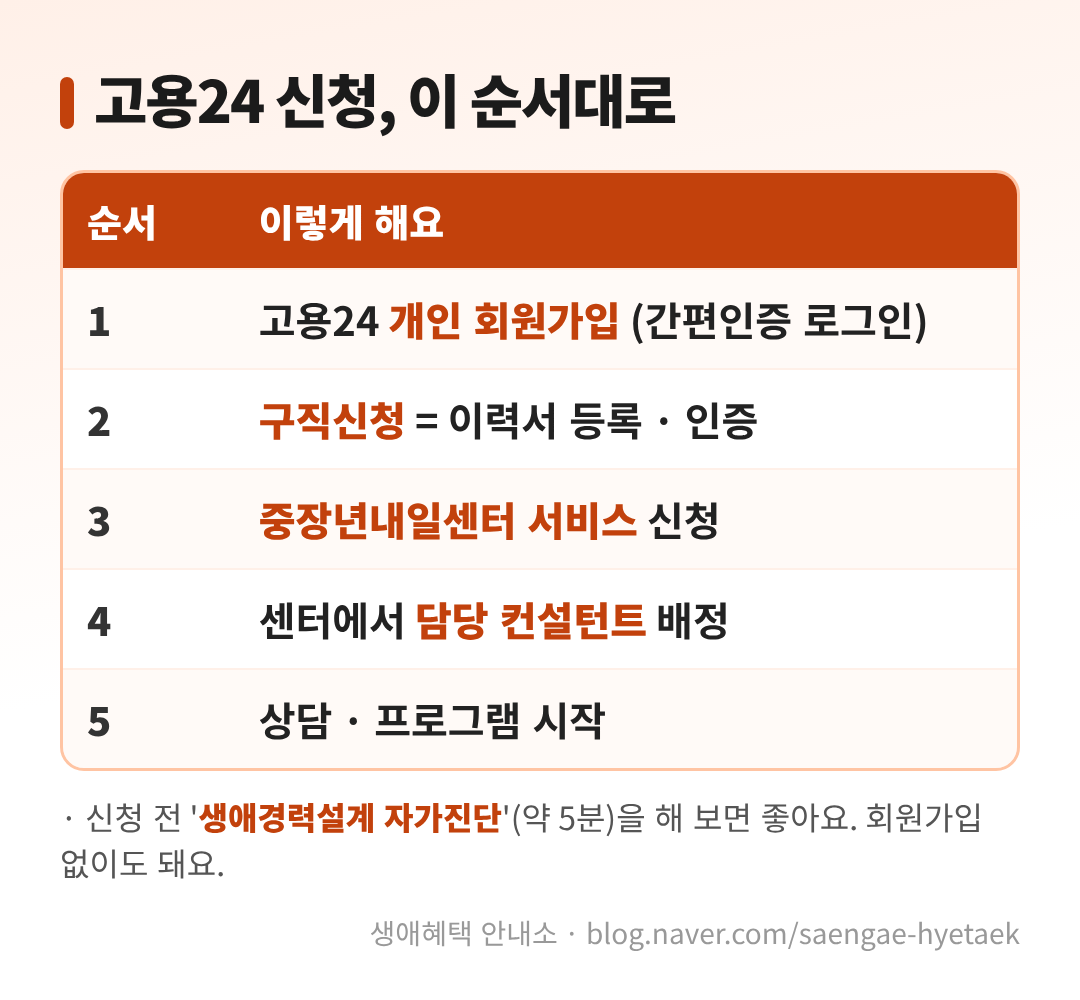
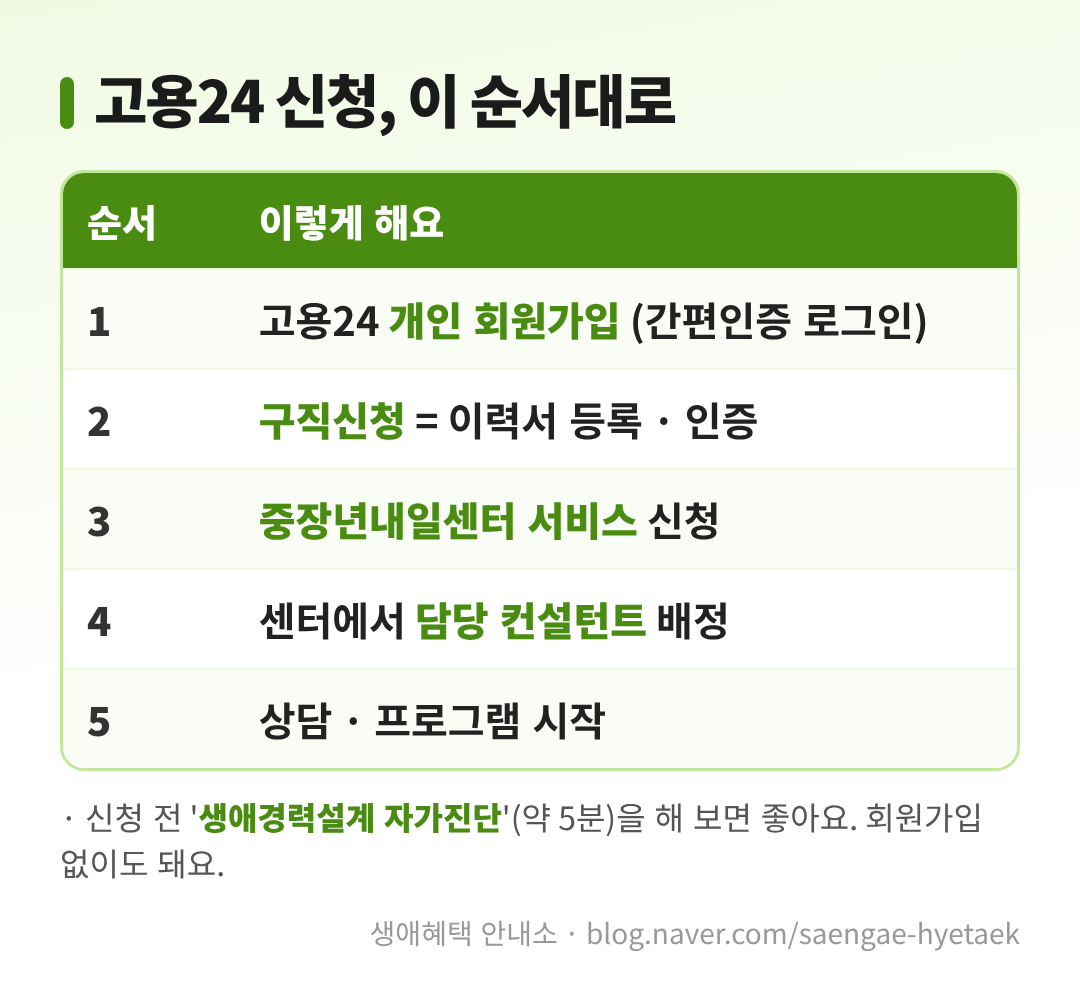
금요일 재취업 카드·표 색을 연두로
Claude-Session: https://claude.ai/code/session_01Nk3GpQpxJj9NPpDGjGUV5D

diff --git a/tools/blog-card/make-viewer.py b/tools/blog-card/make-viewer.py
@@ -6,7 +6,7 @@ ROOT = os.path.dirname(os.path.dirname(os.path.dirname(os.path.abspath(__file__)
 BLOG = os.path.join(ROOT, 'blog')
 OUT = os.path.join(ROOT, 'viewer')
 DAYS = '월화수목금토일'
-COLOR = {'money': '#d9480f', 'digital': '#1c5fd4', 'job': '#c2410c', 'guide': '#0f8a6c'}
+COLOR = {'money': '#d9480f', 'digital': '#1c5fd4', 'job': '#4a8c12', 'guide': '#0f8a6c'}
 
 shutil.rmtree(OUT, ignore_errors=True)
 os.makedirs(os.path.join(OUT, 'img'))

diff --git a/HANDOFF.md b/HANDOFF.md
@@ -2,6 +2,9 @@
 
 새 대화에서 이 파일부터 읽고 이어서 작업해요.
 
+## 10/31 21:45 — 금요일(재취업) 색을 연두로 (사장님: 월 주황과 비슷해 보임)
+- theme job = 연두 ['#f0fae3','#c3e79a','#4a8c12'] (make-card·make-table·make-viewer 모두). 월 money 주황·수 digital 파랑은 그대로. 11/6 카드·표 다시 만들고 미리보기 페이지 갱신.
+
 ## 10/31 21:30 — 원고 미리보기 페이지 (사장님 요청: 메모장 말고 색·그림 보면서 포스팅)
 - `python3 tools/blog-card/make-viewer.py` → viewer/(저장소엔 안 올림) 에 blog/*.txt 전부를 탭(날짜·요일)으로 보여 주는 페이지 생성. 제목·본문·태그·사진 설명 복사 버튼.
 - 아티팩트 slug e542c3d1-384a-4387-a5b7-d52af7bd949a ('생애혜택 안내소 블로그 원고'). 새 글 만들면 스크립트 돌리고 같은 slug로 publish_files 다시 올려 줄 것(base_version은 get_artifact로). 파일 따로 보내지 말 것.
@@ -11,7 +14,7 @@
 - 11/2 기초연금(2곳)·11/6 중장년내일센터(1곳) 원고에서 ✍ 줄 지움.
 
 ## 10/31 21:30 — 11/6(금) 중장년내일센터 원고·카드·표 완성
-- 원고 `blog/2026-11-06-중장년내일센터-이용법.txt`(본문+사진 설명 공백 빼고 약 1,390자, ✍ 경험 자리 1곳 — 없으면 지우라고 적어 둠), 카드 `…-카드.png`(theme job 진주황), 표 4장 `…-표1-한눈에 / 표2-서비스 / 표3-신청순서 / 표4-경력지원제.png`(json 같이 둠). 주제 비즈니스·경제.
+- 원고 `blog/2026-11-06-중장년내일센터-이용법.txt`(본문+사진 설명 공백 빼고 약 1,390자, ✍ 경험 자리 1곳 — 없으면 지우라고 적어 둠), 카드 `…-카드.png`(theme job, 10/31 21:45 연두로 바꿈), 표 4장 `…-표1-한눈에 / 표2-서비스 / 표3-신청순서 / 표4-경력지원제.png`(json 같이 둠). 주제 비즈니스·경제.
 - 근거: 고용24 제도안내 '중장년내일센터'(40세 이상 무료, 재직자는 1,000인 미만 사업장 주요 대상, 신청 순서 회원가입→구직신청·이력서→서비스 신청→컨설턴트 배정, 본인만 신청, 생애경력설계 4~6시간·자가진단 약 5분 비회원 가능), 고용24 생애경력설계 소개(40+·50+·60+ 재직자 과정, 무료·식사·수료증), 고용24 중장년 경력지원제 참여요건(2026 기준 1961~1976년생 미취업자) + 보도(4주 최대 150만 원, 1~3개월, 2026 약 2,000명). 문의 1350.
 - 센터 수는 자료마다 30여·31·38·40곳으로 달라 글에 안 넣음. ⚠ 앱 content.ts 중장년내일센터 카드 '전국 38곳'도 확인 안 된 숫자 → 다음 앱 수정 때 '전국 센터' 등으로 바꿀지 검토. 경력지원제 카드 '월 최대 150만 원'은 공식 기준이 '4주 최대 150만 원'이라 같이 고치면 좋음.
 - 11/9 예고 문구는 "문화누리카드, 11월 30일 마감 전에 꼭 확인하세요"(무엇이 마감인지 11/9 글 쓸 때 확인해서 맞출 것).
